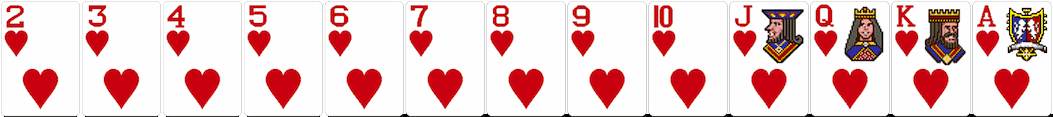
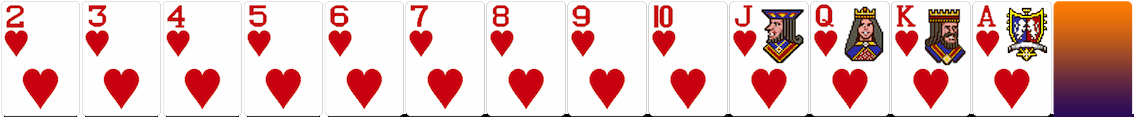
Complete game

diff --git a/src/scenes/BoardScene.ts b/src/scenes/BoardScene.ts
@@ -7,8 +7,10 @@ const DEFAULT_MAX_COLUMNS = 4;
 
 export default class BoardScene extends Phaser.Scene
 {
-
-	cards: CardActor[] = new Array();
+	/* Pointer to selected card */
+	selected? : CardActor;
+	/* Game attributes */
+	pairsToMatch = DEFAULT_BOARD_SIZE / 2;
 	rows: number = Math.floor(DEFAULT_BOARD_SIZE / DEFAULT_MAX_COLUMNS);
 
 	constructor()
@@ -22,7 +24,7 @@ export default class BoardScene extends Phaser.Scene
 		this.load.spritesheet(TextureKeys.Cards, 'img/cards.png', { 
 			frameWidth: 81, 
 			frameHeight: 117, 
-			endFrame: 13 
+			endFrame: 14 
 		});
     }
 
@@ -32,13 +34,65 @@ export default class BoardScene extends Phaser.Scene
 		this.add.image(this.scale.width * 0.5, this.scale.height * 0.5, 'background');
 		/* Create the cards */
 		this.generateCards();
-		
+		/* Hide context menu */
+		this.input.mouse.disableContextMenu();
+	}
+
+	/**
+	 * Card pressed event. Checks if the player made a pair or not and calls for the consequent action
+	 * @param pressed 	Card pressed
+	 */
+	cardPressed = (pressed: CardActor) : void => 
+	{
+		// Second pressed card
+		if (this.selected) {
+			(this.selected.id === pressed.id) 
+				? this.matchPair() 										// Cards match
+				: setTimeout(() => this.hideCards(pressed), 500);		// Cards do not match
+		}
+		// First pressed card
+		else {
+			this.selected = pressed;
+		}
+	} 
+
+	/**
+	 * Sets the pair as matched and checks for the win
+	 */
+	private matchPair = () : void => 
+	{
+		console.log("Pair match");
+		this.selected = undefined;
+		this.pairsToMatch--;
+		this.checkWin();
+	}
+
+	/**
+	 * Hides both selected cards and unselects them
+	 * @param pressed 	Last selected card
+	 */
+	private hideCards = (pressed: CardActor) : void => 
+	{
+		console.log(pressed);
+		this.selected?.hide();
+		pressed.hide();
+		this.selected = undefined;
+	}
+
+	/**
+	 * Checks and notifies when the player wins
+	 */
+	private checkWin = () => 
+	{
+		if (!this.pairsToMatch) {
+			setTimeout(() => alert("You win"), 100);
+		}
 	}
 
 	/**
 	 * Fill the Cards array with pairs of cards
 	 */
-	private generateCards() : void
+	private generateCards = () : void =>
 	{
 		const width = this.scale.width;
 		const height = this.scale.height;
@@ -47,7 +101,6 @@ export default class BoardScene extends Phaser.Scene
 			const x = i % DEFAULT_MAX_COLUMNS * Math.floor(width / (DEFAULT_MAX_COLUMNS + 1)) + Math.floor(width / (DEFAULT_MAX_COLUMNS + 1));
 			const y = Math.floor(i / DEFAULT_MAX_COLUMNS) * Math.floor(height / (this.rows + 1)) + Math.floor(height / (this.rows + 1));
 			const card = new CardActor(this, x, y, ids[i]);
-			this.cards.push(card);
 			this.add.existing(card);
 		}
 	}
@@ -55,7 +108,7 @@ export default class BoardScene extends Phaser.Scene
 	/**
 	 * Generates a shuffle array of duplicated numbers
 	 */
-	private generateIds() : number[]
+	private generateIds = () : number[] =>
 	{
 		const ids = new Array();
 		/* Create the ids array */

diff --git a/src/game/CardActor.ts b/src/game/CardActor.ts
@@ -1,15 +1,42 @@
 import Phaser from 'phaser'
+import BoardScene from '~/scenes/BoardScene';
 import TextureKeys from '~/consts/TextureKeys';
+
+const HIDDEN_FRAME = 13;
 
 export default class CardActor extends Phaser.GameObjects.Sprite
 {
 
 	/* Card id */
-	private id!: number;
+	id!: number;
+	/* Card state */
+	private isPressed: boolean = false;
 
 	constructor(scene: Phaser.Scene, x: number, y: number, id: number)
 	{
-		super(scene, x, y, TextureKeys.Cards, id);
+		super(scene, x, y, TextureKeys.Cards, HIDDEN_FRAME);
 		this.id = id;
+		/* Set mouse input */
+		this.setInteractive().on('pointerdown', this.onPress);
 	}
+
+	/**
+	 * Event OnClick. Sets the card as pressed and notifies the board
+	 */
+	onPress = () => {
+		if (!this.isPressed) {
+			this.isPressed = true;
+			this.setFrame(this.id);
+			(this.scene as BoardScene).cardPressed(this);
+		}
+	}
+
+	/**
+	 * Unselects and hides the card
+	 */
+	hide = () => {
+		this.isPressed = false;
+		this.setFrame(HIDDEN_FRAME);
+	}
+
 }
